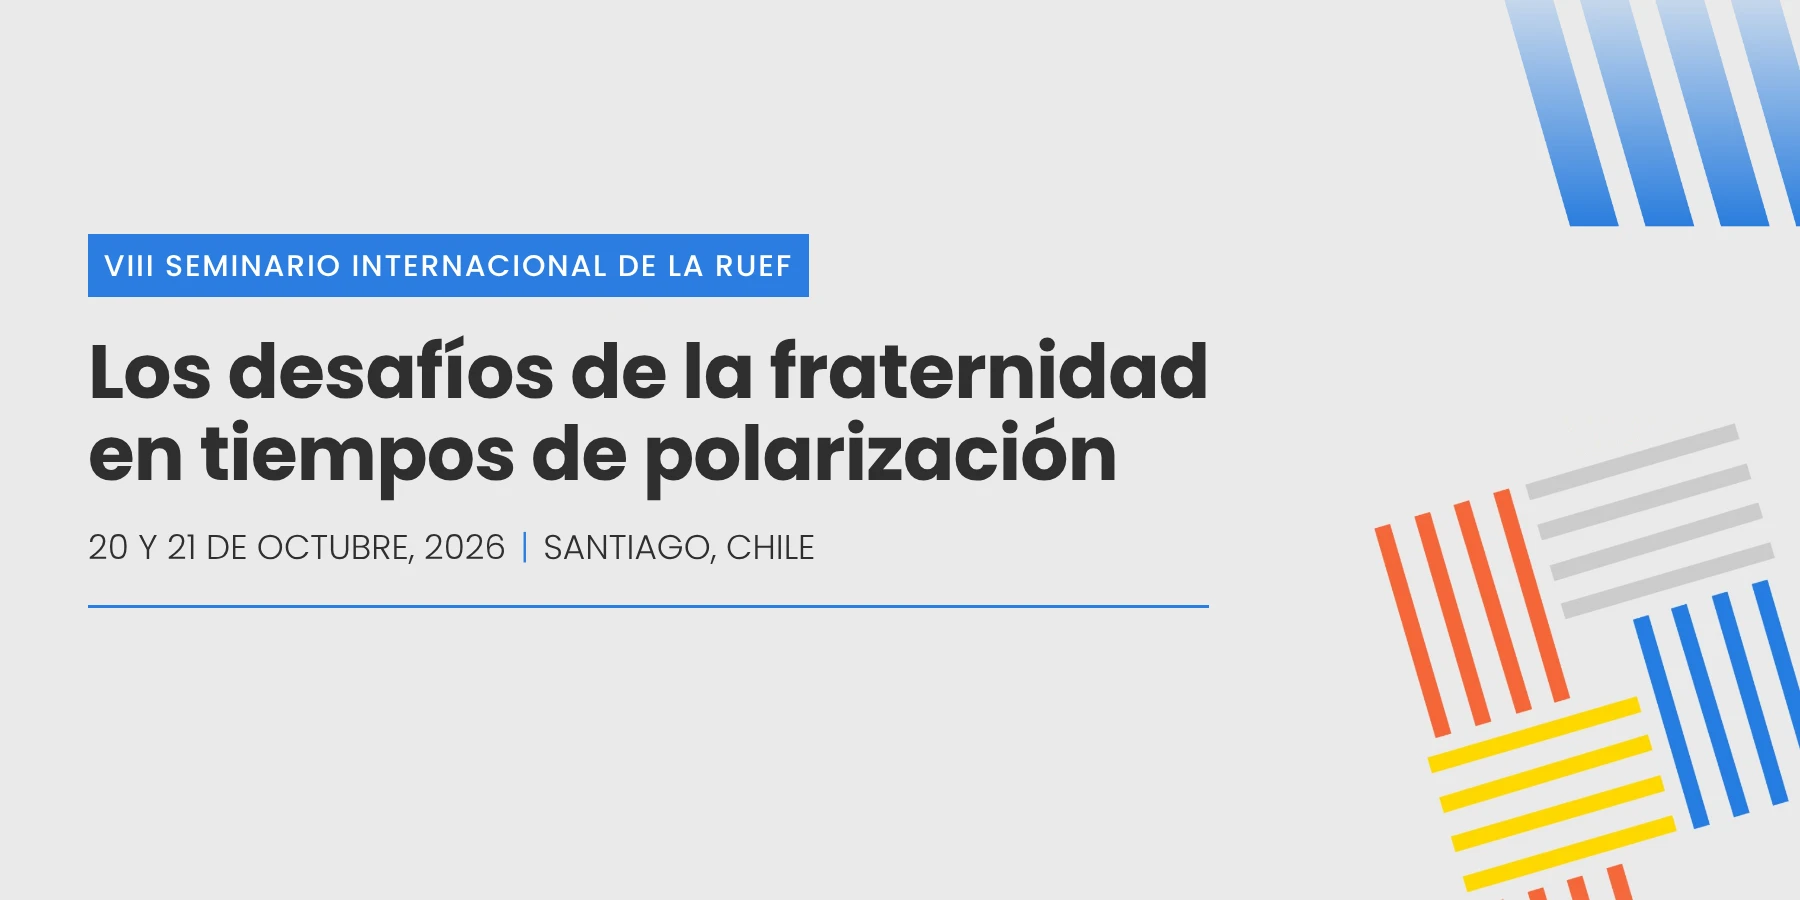
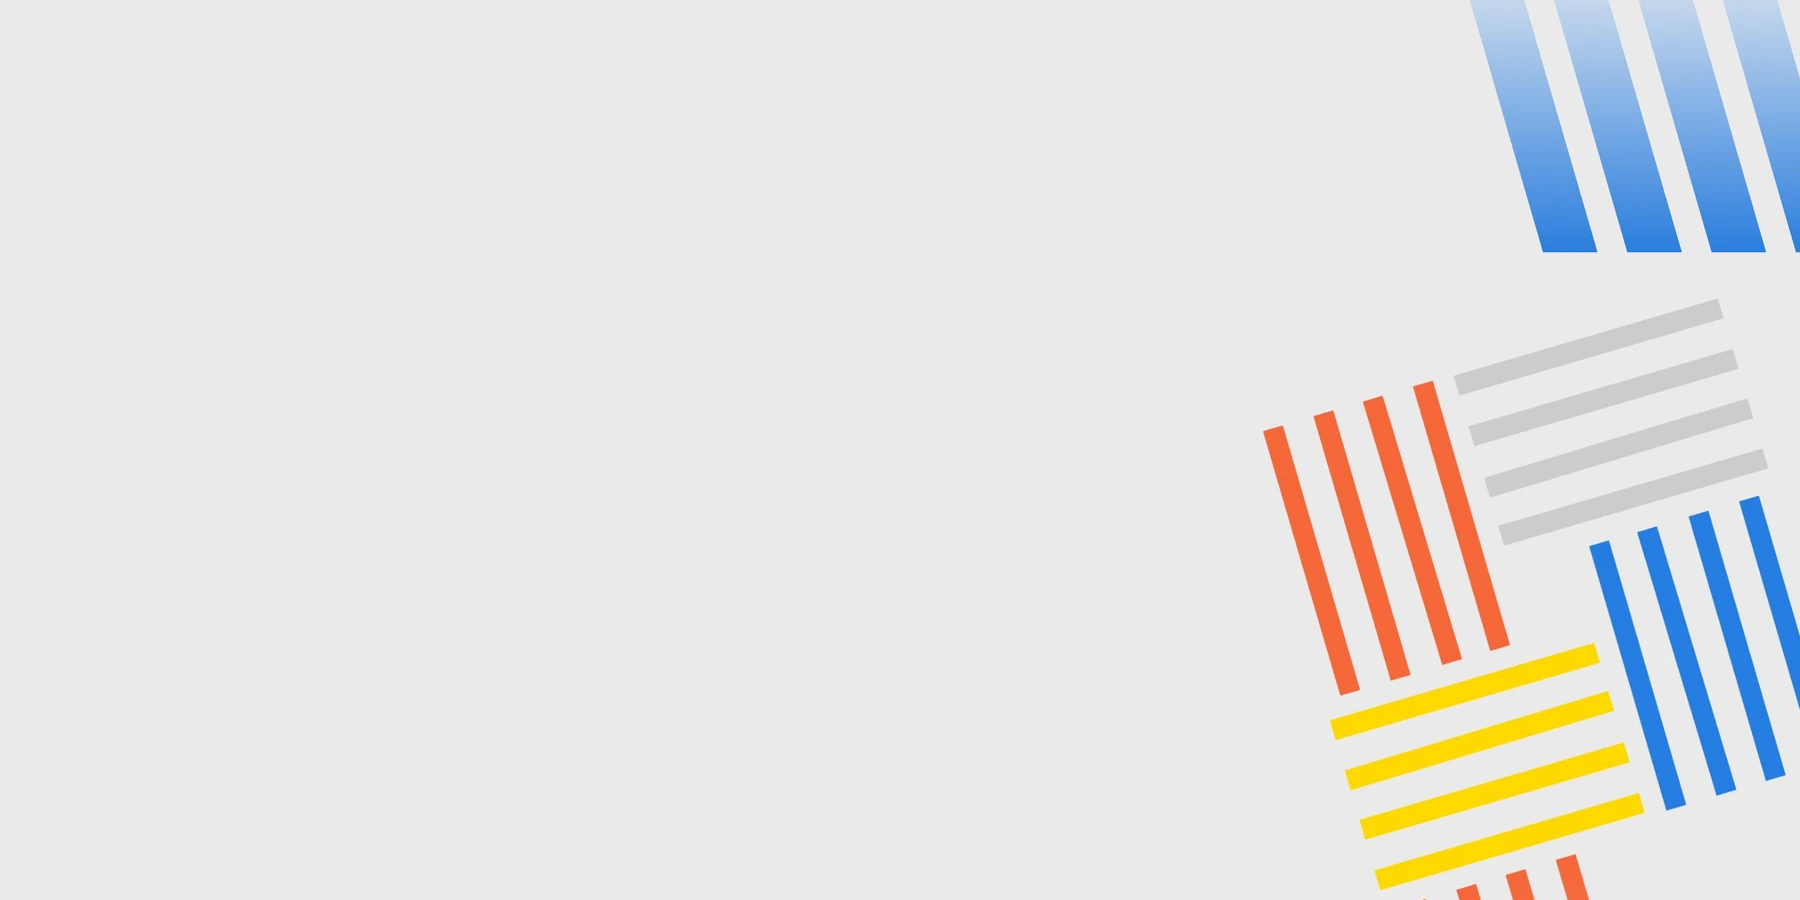
post: no view from nowhere, text-free hero
Claude-Session: https://claude.ai/code/session_01XTW1JzgRpPr9QSsPbcbXtt

diff --git a/src/content/blog/no-view-from-nowhere.md b/src/content/blog/no-view-from-nowhere.md
@@ -3,7 +3,7 @@ title: "No View from Nowhere"
 description: "Relations, polarization, and fraternity. A summary of my talk at the VIII International Seminar of the RUEF in Santiago de Chile, on what the relational picture of quantum theory can suggest about polarization and fraternity."
 date: 2026-10-20
 hero: "/assets/no-view-from-nowhere-hero.webp"
-heroAlt: "Graphic of the VIII International Seminar of the RUEF, Los desafíos de la fraternidad en tiempos de polarización, Santiago de Chile, 20 and 21 October 2026."
+heroAlt: "Coloured stripes on a grey ground, from the graphic design of the VIII International Seminar of the RUEF, Santiago de Chile."
 thumb: "/assets/no-view-from-nowhere-thumb.webp"
 share: "/assets/no-view-from-nowhere-share.jpg"
 tags: ["fraternity", "polarization", "relational quantum mechanics"]
